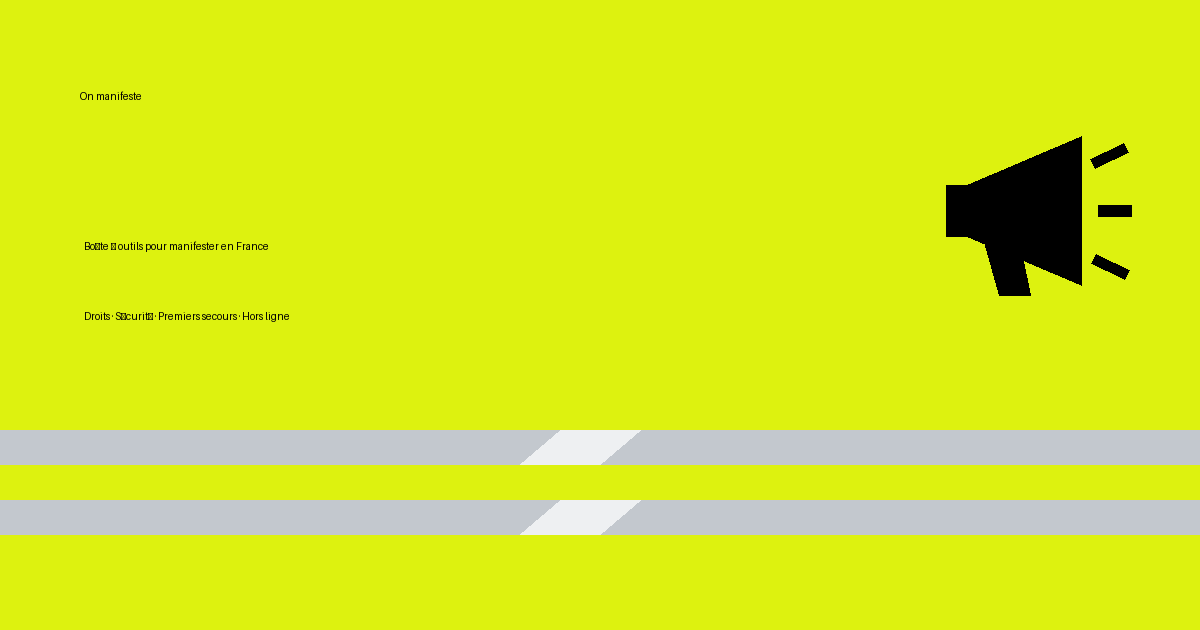
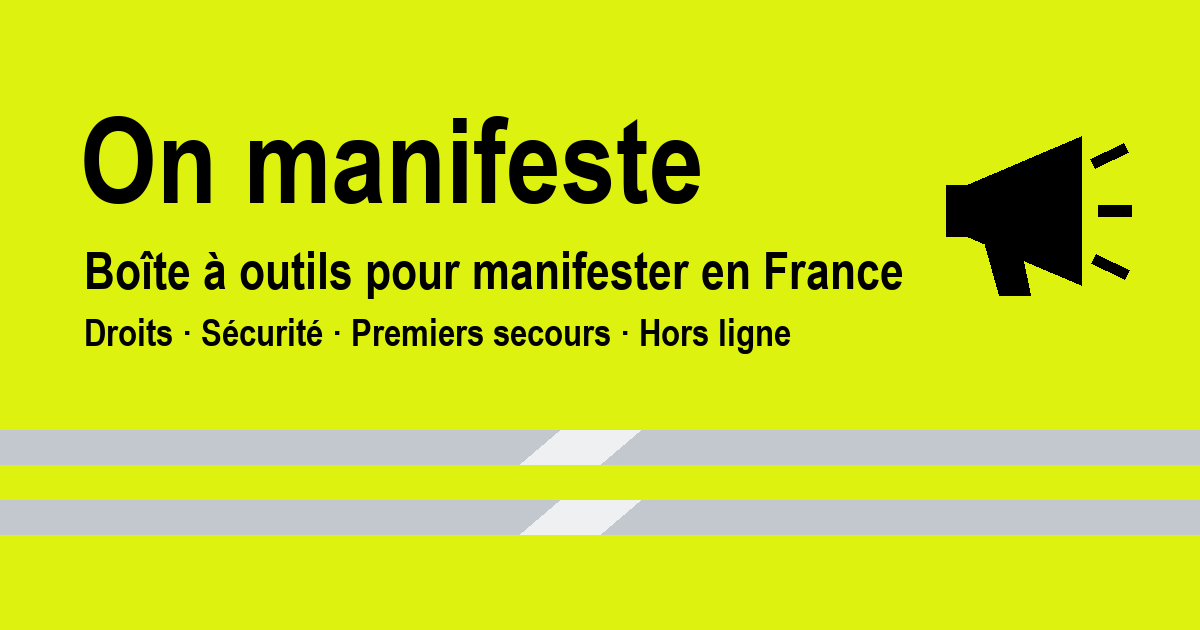
fix: clean share image, "On manifeste" as app short name
The share image had been regenerated with Pillow's tiny default font (no
accents); the script now finds a condensed bold font on Windows too. The
installed-app short name and the iOS title no longer say "Protest".

Changed region(s): [[0.0617, 0.3619, 0.7708, 0.573], [0.0617, 0.1508, 0.5858, 0.3317]]

diff --git a/overrides/main.html b/overrides/main.html
@@ -3,7 +3,7 @@
 <meta name="theme-color" content="#ddf20f" />
 <link rel="apple-touch-icon" href="{{ 'assets/icons/apple-touch-icon.png' | url }}" />
 <meta name="apple-mobile-web-app-capable" content="yes" />
-<meta name="apple-mobile-web-app-title" content="Protest" />
+<meta name="apple-mobile-web-app-title" content="On manifeste" />
 {#- Open Graph / link previews (Signal, social networks). Absolute URLs need site_url (set by CI).
 #} {%- set meta = page.meta if page and page.meta else {} %} {%- set og_title = meta.title or
 (page.title ~ " - " ~ config.site_name if page and page.title and not page.is_homepage else

diff --git a/scripts/generate-og-image.py b/scripts/generate-og-image.py
@@ -1,7 +1,7 @@
 """Generate the Open Graph share image (docs/assets/social/og.png, 1200x630).
 
 Run once after changing the design: python3 scripts/generate-og-image.py (requires Pillow).
-Uses a condensed bold system font when available (macOS: DIN Condensed), else Pillow's default.
+Uses a condensed bold system font when available (macOS: DIN Condensed; Windows: Arial Narrow Bold), else Pillow's default (tiny, no accents: do not commit that output).
 """
 from pathlib import Path
 
@@ -16,6 +16,7 @@ SHEEN = (238, 240, 242)
 FONT_CANDIDATES = [
     "/System/Library/Fonts/Supplemental/DIN Condensed Bold.ttf",
     "/System/Library/Fonts/Supplemental/Impact.ttf",
+    "C:/Windows/Fonts/ARIALNB.TTF",
     "/usr/share/fonts/truetype/dejavu/DejaVuSans-Bold.ttf",
 ]
 
